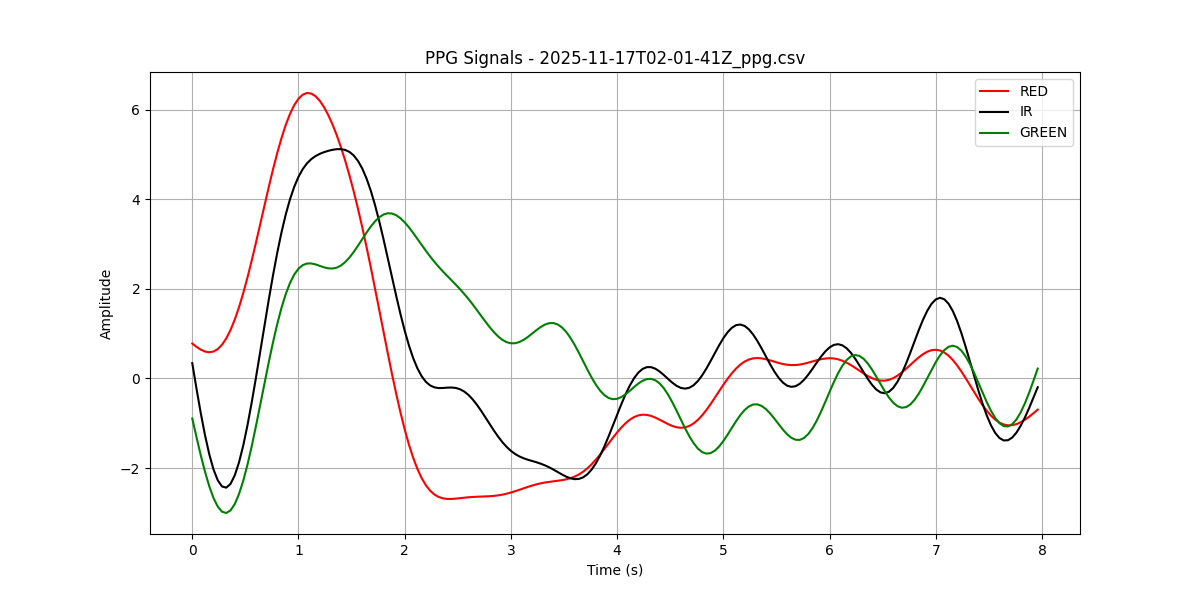
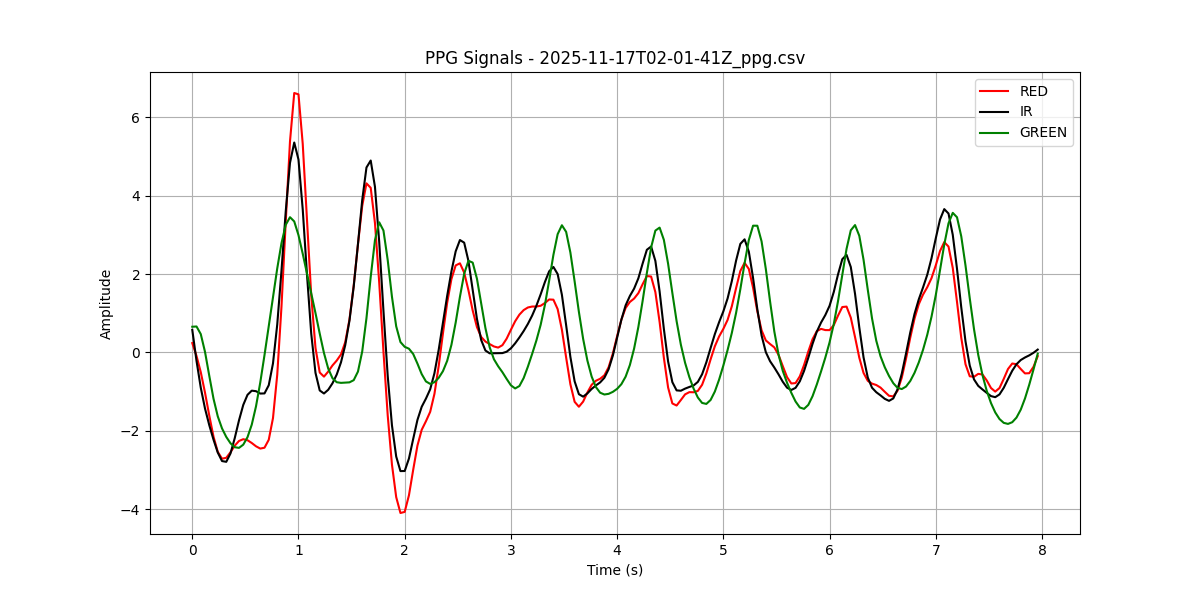
fix: Declare defaut lowcut and highcut values

diff --git a/main.py b/main.py
@@ -20,11 +20,8 @@ from src.config import (
 
 
 
-def process(input: pd.DataFrame) -> pd.DataFrame:
+def process(input: pd.DataFrame, fs: float) -> pd.DataFrame:
     """Processes the input DataFrame to calculate cardiac frequency attributes."""
-
-    # Calculate sampling frequency from index timestamps
-    fs = calculate_frequency(input.index.values)
 
     # Process each row in the DataFrame
     results = []
@@ -78,13 +75,15 @@ def main():
     if not all(col in in_df.columns for col in COLUMNS):
         raise ValueError(f"Input CSV must contain the following columns: {COLUMNS}")
 
+    # Calculate sampling frequency from index timestamps
+    fs = calculate_frequency(in_df.index.values)
     # Process the input DataFrame
-    out_df = process(in_df)
+    out_df = process(in_df, fs)
 
     # Do common processing on the input
     proc_in_df = in_df.copy()
     for col in COLUMNS:
-        proc_in_df[col] = bandpass_filter(proc_in_df[col].values, lowcut=0.5, highcut=4.0, fs=100)
+        proc_in_df[col] = bandpass_filter(proc_in_df[col].values, fs)
         proc_in_df[col] = robust_normalize(proc_in_df[col].values)
 
     # Draw processed input DataFrame

diff --git a/src/common.py b/src/common.py
@@ -2,16 +2,25 @@
 
 import numpy as np
 from scipy.signal import butter, filtfilt
+from .config import (
+    DEFAULT_LOWCUT,
+    DEFAULT_HIGHCUT,
+)
 
 
 
-def calculate_frequency(x: np.ndarray) -> np.ndarray:
+def calculate_frequency(x: np.ndarray) -> float:
     """Calculates the estimated frequency of the input array x."""
     diff_time = np.mean(np.diff(x)) / 1000.0 # Convert to seconds
     return 1.0 / diff_time
 
 
-def bandpass_filter(x: np.ndarray, lowcut: float, highcut: float, fs: float) -> np.ndarray:
+def bandpass_filter(
+        x: np.ndarray,
+        fs: float,
+        lowcut: float = DEFAULT_LOWCUT,
+        highcut: float = DEFAULT_HIGHCUT,
+    ) -> np.ndarray:
     """Applies a Butterworth bandpass filter to the input signal x."""
     nyq = fs * 0.5
     b, a = butter(4, [lowcut / nyq, highcut / nyq], btype="band")

diff --git a/src/cardiac_freq.py b/src/cardiac_freq.py
@@ -11,7 +11,7 @@ def intervals_in_seconds(ppg_signal: np.ndarray, fs: float) -> np.ndarray:
     """Calculates the intervals between heartbeats in seconds from a PPG signal."""
 
     # Common processing steps:
-    filtered_signal = bandpass_filter(ppg_signal, lowcut=0.5, highcut=4.0, fs=fs)
+    filtered_signal = bandpass_filter(ppg_signal, fs)
     normalized_signal = robust_normalize(filtered_signal)
 
     # Find the peaks in the normalized signal, expecting them to correspond to heartbeats.

diff --git a/src/config.py b/src/config.py
@@ -1,6 +1,8 @@
 """Configuration constants for cardiac frequency analysis."""
 
 TACHYCARDIA_THRESHOLD = 100  # BPM
+DEFAULT_LOWCUT = 0.5  # Hz
+DEFAULT_HIGHCUT = 4.0  # Hz
 
 COLUMNS = ["RED","IR","GREEN"]
 COLUMNS_COLORS = {
